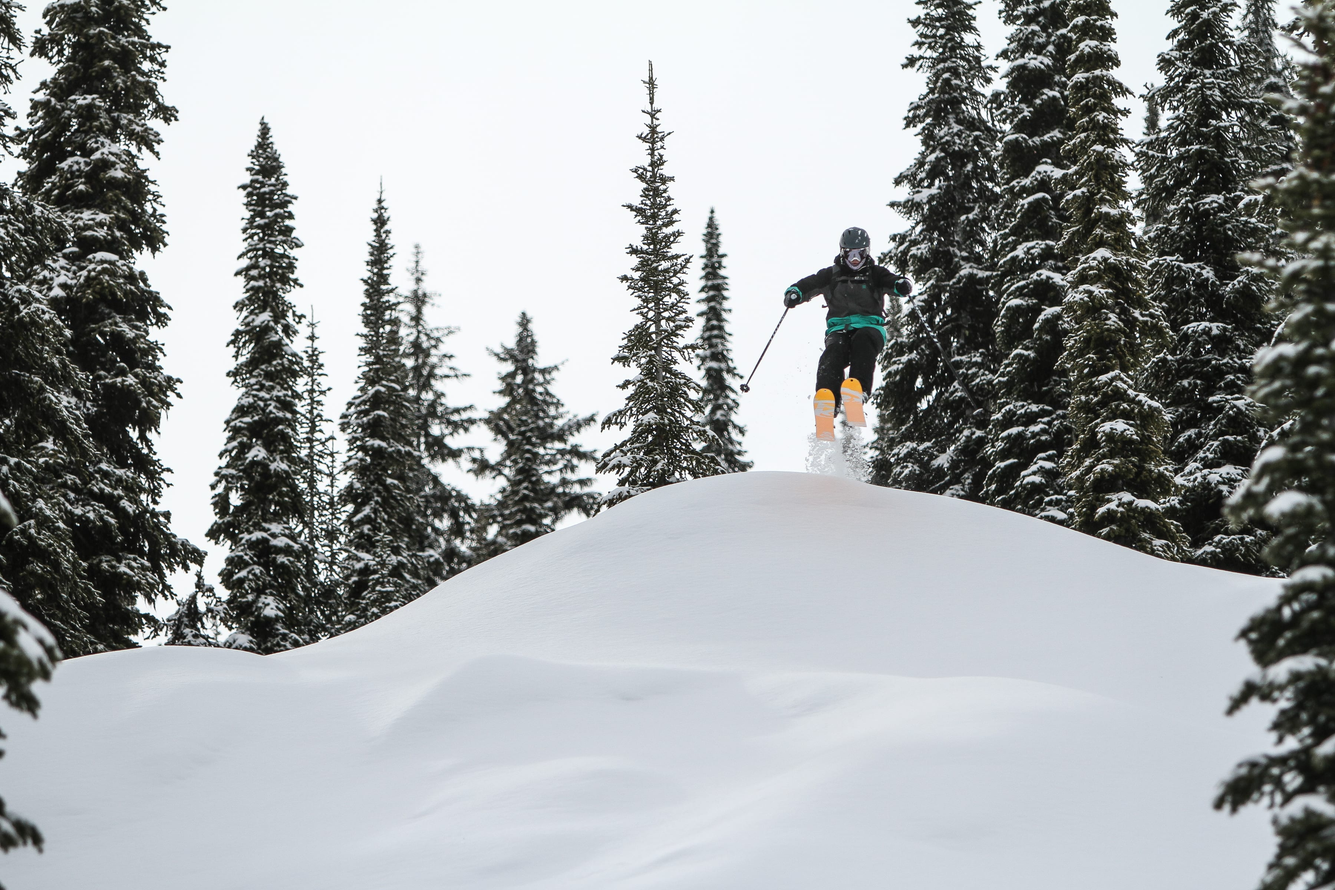
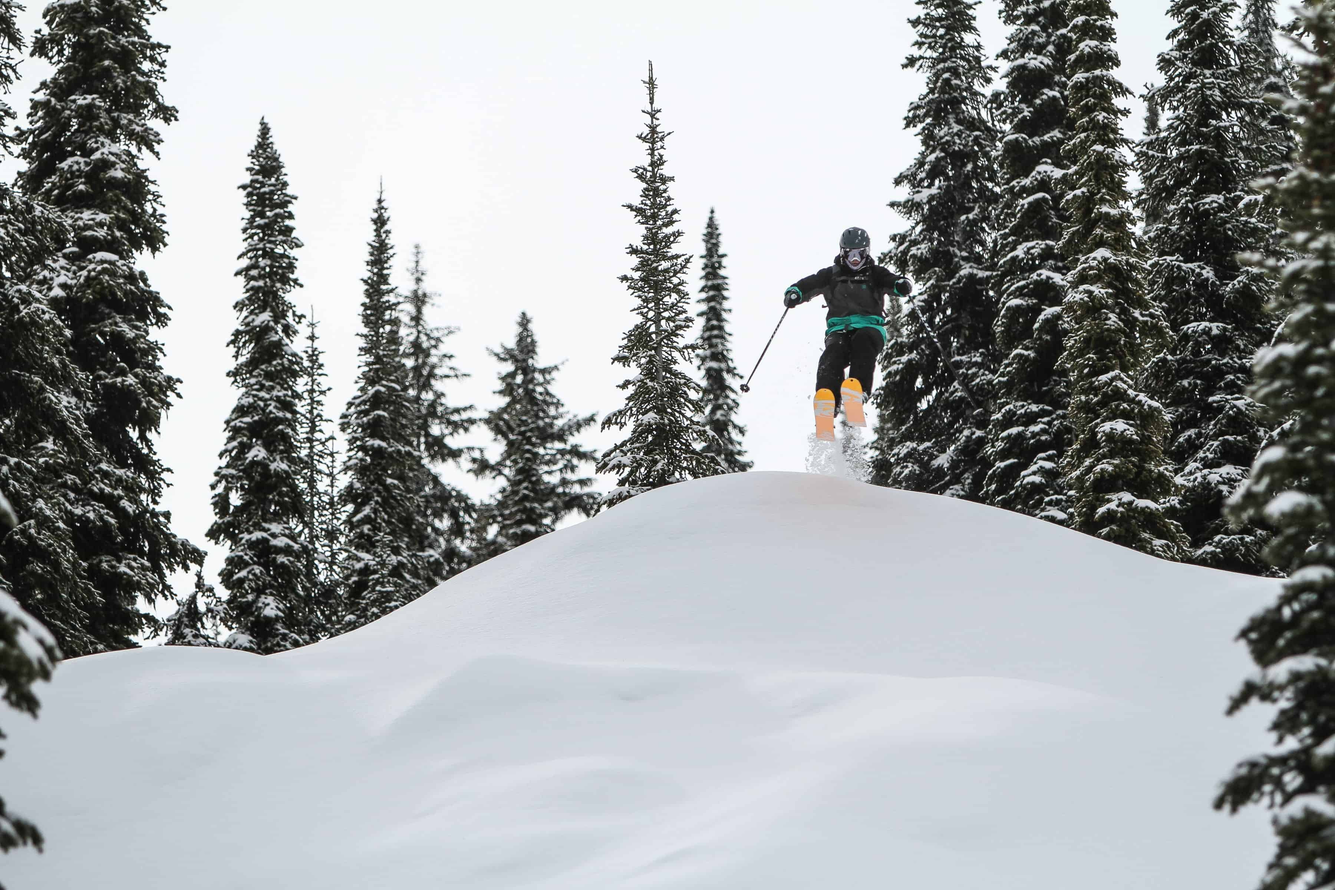
Compress hero photo more and change static refs in css to relative

Changed region(s): [[0.4978, 0.5, 0.5289, 0.5312]]

diff --git a/assets/css/main.css b/assets/css/main.css
@@ -207,7 +207,7 @@ hr, img {
     height: 14px;
     line-height: 14px;
     vertical-align: text-top;
-    background-image: url(http://wmcbride.com/assets/img/glyphicons-halflings.png);
+    background-image: url(../img/glyphicons-halflings.png);
     background-position: 14px 14px;
     background-repeat: no-repeat;
     margin-top: 1px
@@ -843,7 +843,7 @@ hr, img {
   .footer {
     margin-top: 70px;
     border-top: 1px solid #e5e5e5;
-    background: url(http://wmcbride.com/assets/img/bgfooter.png) #222;
+    background: url(../img/bgfooter.png) #222;
     padding: 30px 0 0;
     color: #919191
   }
@@ -1039,7 +1039,7 @@ hr, img {
     }
     .action-banner-bg {
       opacity: .1;
-      background: url(http://wmcbride.com/assets/img/ski_photo_lg-min.jpg) top center no-repeat;
+      background: url(../img/ski_photo_lg-min.jpg) top center no-repeat;
       background-size: cover
     }
     .loaded {
@@ -1047,7 +1047,7 @@ hr, img {
       transition: 7s
     }
     .snow {
-      background-image: url(http://wmcbride.com/assets/img/snow_flakes_1.png), url(http://wmcbride.com/assets/img/snow_flakes_2.png), url(http://wmcbride.com/assets/img/snow_flakes_3.png);
+      background-image: url(../img/snow_flakes_1.png), url(../img/snow_flakes_2.png), url(../img/snow_flakes_3.png);
       height: 100%;
       left: 0;
       position: absolute;
@@ -1327,7 +1327,7 @@ hr, img {
   
   @media (max-width:580px) {
     .action-banner-bg {
-      background: url(http://wmcbride.com/assets/img/ski_photo_sm.jpg) center no-repeat;
+      background: url(../img/ski_photo_sm.jpg) center no-repeat;
       background-size: cover
     }
     .fa-snowflake-o {
@@ -1793,8 +1793,8 @@ hr, img {
   
   @font-face {
     font-family: FontAwesome;
-    src: url(http://wmcbride.com/assets/font/fontawesome-webfont.eot?v=4.7.0);
-    src: url(http://wmcbride.com/assets/font/fontawesome-webfont.eot#iefix&v=4.7.0) format('embedded-opentype'), url(http://wmcbride.com/assets/font/fontawesome-webfont.woff2?v=4.7.0) format('woff2'), url(http://wmcbride.com/assets/font/fontawesome-webfont.woff?v=4.7.0) format('woff'), url(http://wmcbride.com/assets/font/fontawesome-webfont.ttf?v=4.7.0) format('truetype'), url(http://wmcbride.com/assets/font/fontawesome-webfont.svg?v=4.7.0#fontawesomeregular) format('svg');
+    src: url(../font/fontawesome-webfont.eot?v=4.7.0);
+    src: url(../font/fontawesome-webfont.eot#iefix&v=4.7.0) format('embedded-opentype'), url(../font/fontawesome-webfont.woff2?v=4.7.0) format('woff2'), url(../font/fontawesome-webfont.woff?v=4.7.0) format('woff'), url(../font/fontawesome-webfont.ttf?v=4.7.0) format('truetype'), url(../font/fontawesome-webfont.svg?v=4.7.0#fontawesomeregular) format('svg');
     font-weight: 400;
     font-style: normal
   }

diff --git a/index.html b/index.html
@@ -8,7 +8,7 @@
   <meta name="author" content="Will McBride">
   <!-- Styles -->
   <link href="assets/css/font-awesome-slim.min.css" rel="stylesheet">
-  <link href="assets/css/main.min.css" rel="stylesheet">
+  <link href="assets/css/main.css" rel="stylesheet">
   
   <link href="https://fonts.googleapis.com/css?family=Montserrat:300,400,500" rel="stylesheet">
   <!-- !important THIS STYLE CSS ON BOTTOM OF STYLEs LIST-->
